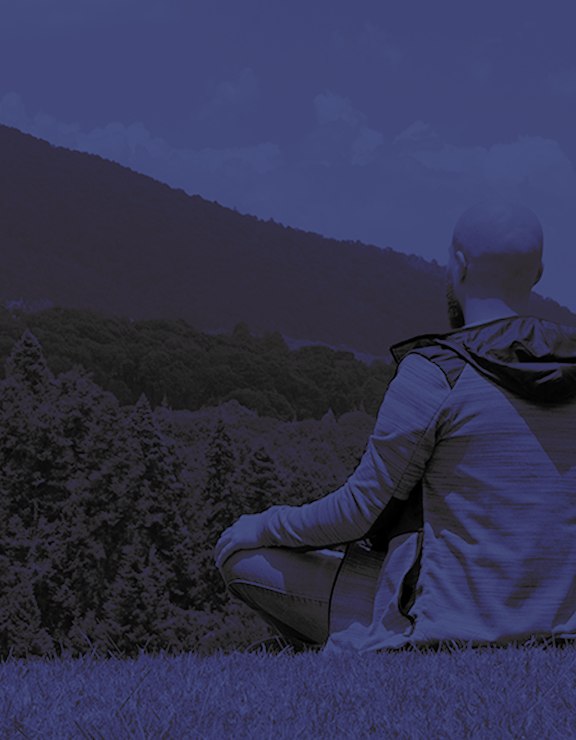
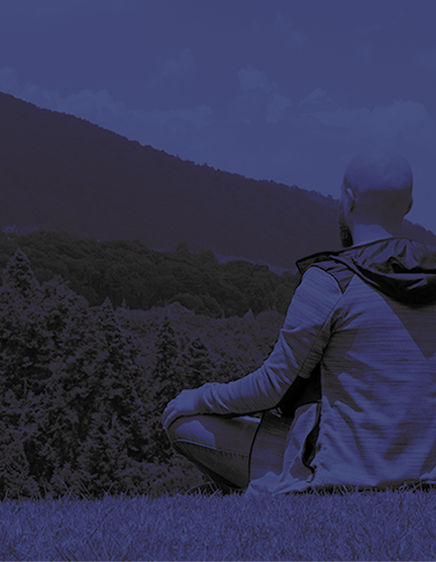
fix the width

diff --git a/renace-styles.css b/renace-styles.css
@@ -313,6 +313,11 @@
     }
 
     .foto-renace{
+        width: 436px;
         background-image: url("images/renace_mobil.png");
+    }
+
+    .contacto2{
+        max-width: 436px;
     }
 }
